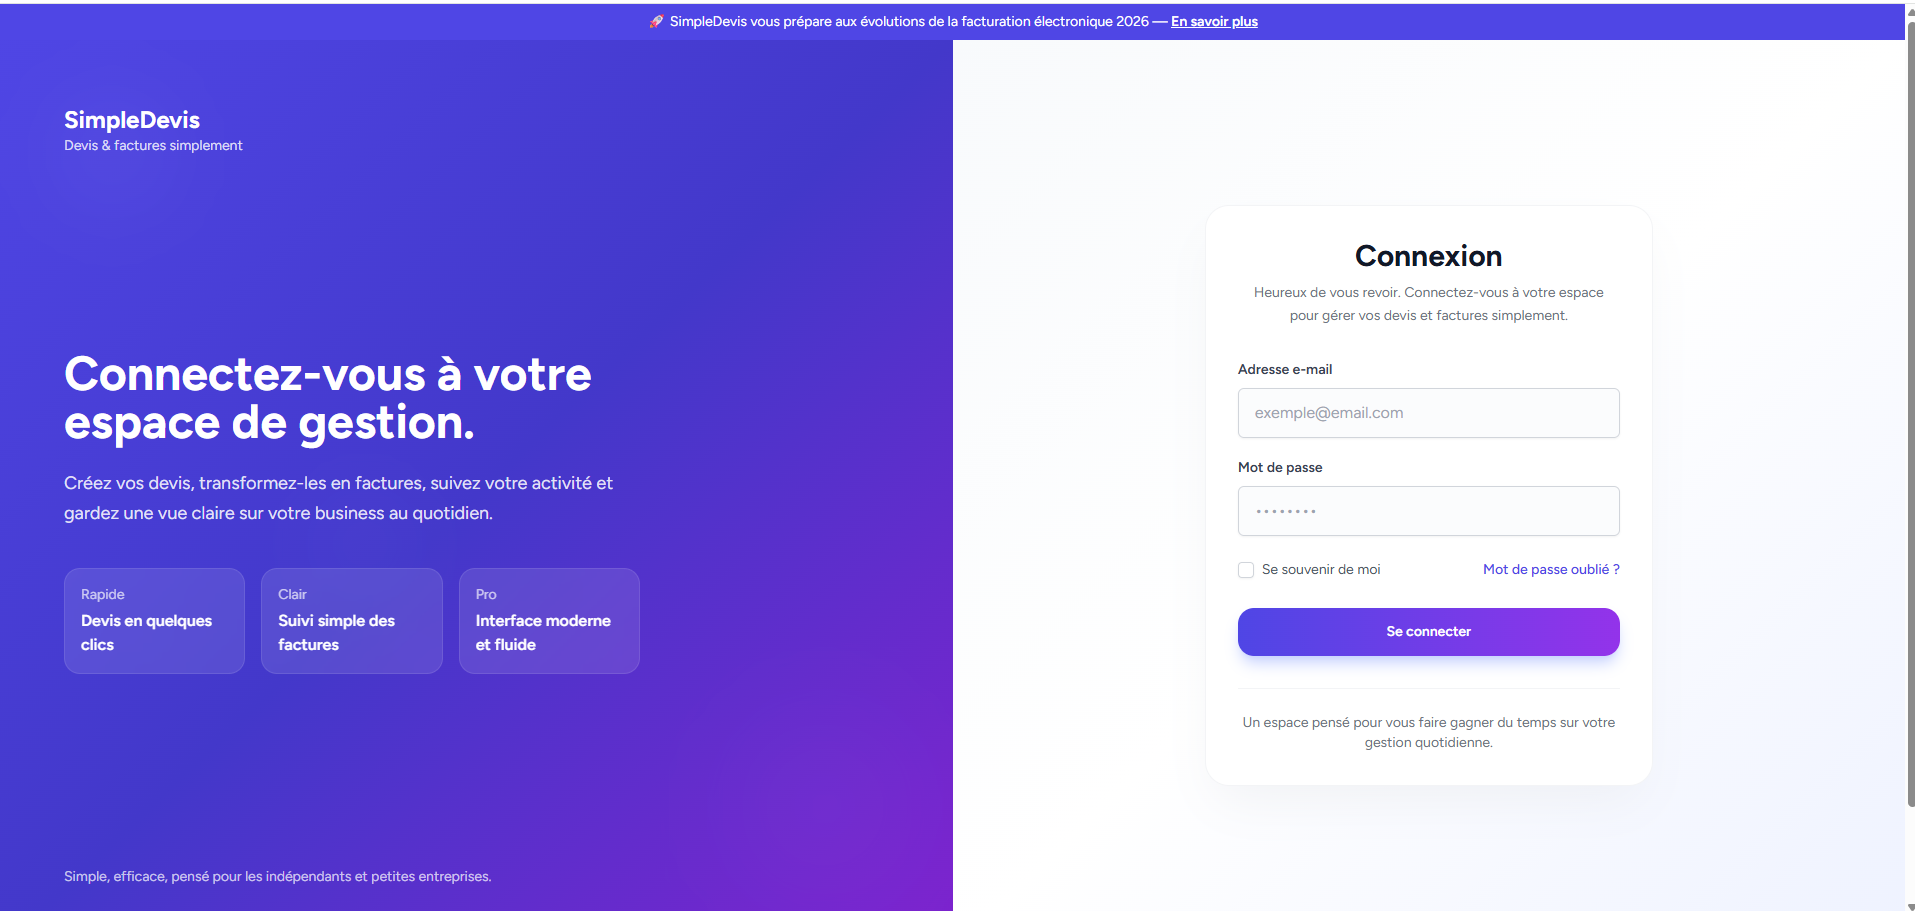
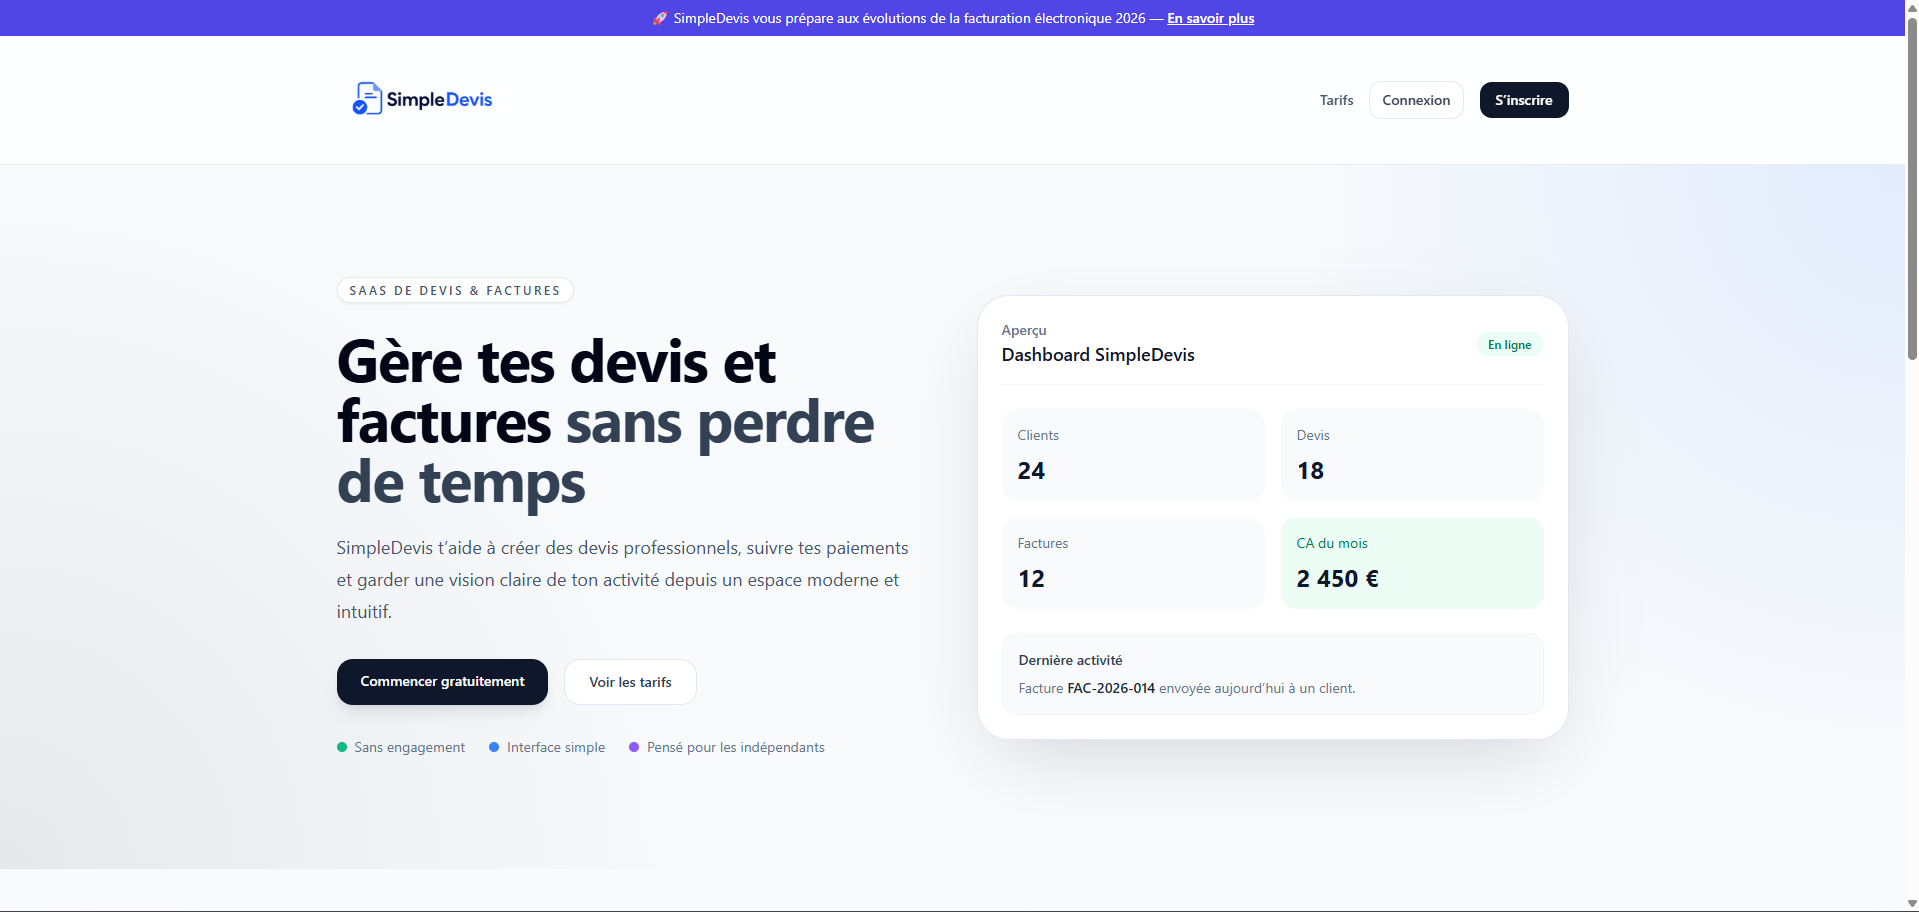
ajout images

diff --git a/resources/views/layouts/app.blade.php b/resources/views/layouts/app.blade.php
@@ -1,12 +1,48 @@
+
 <!DOCTYPE html>
 <html lang="fr">
 <head>
     <meta charset="UTF-8">
     <meta name="viewport" content="width=device-width, initial-scale=1.0">
 
-    <title>@yield('title', 'Corsica Digital Lab')</title>
-    <meta name="description" content="@yield('description', 'Création de sites web et solutions numériques en Corse.')">
+    {{-- SEO principal --}}
+    <title>@yield('title', 'Corsica Digital Lab | Création de sites web en Corse')</title>
 
+    <meta
+        name="description"
+        content="@yield('description', 'Corsica Digital Lab accompagne les artisans, indépendants et entreprises dans la création de sites web et de solutions numériques en Corse.')"
+    >
+
+    <meta name="robots" content="index, follow">
+
+    {{-- URL canonique --}}
+    <link rel="canonical" href="{{ url()->current() }}">
+
+    {{-- Open Graph : partage sur les réseaux sociaux --}}
+    <meta property="og:type" content="website">
+    <meta property="og:locale" content="fr_FR">
+    <meta property="og:site_name" content="Corsica Digital Lab">
+
+    <meta property="og:title" content="@yield('title', 'Corsica Digital Lab | Création de sites web en Corse')">
+
+    <meta
+        property="og:description"
+        content="@yield('description', 'Création de sites web, e-commerce et solutions numériques sur mesure en Corse.')"
+    >
+
+    <meta property="og:url" content="{{ url()->current() }}">
+
+    {{-- Twitter / X --}}
+    <meta name="twitter:card" content="summary_large_image">
+
+    <meta name="twitter:title" content="@yield('title', 'Corsica Digital Lab | Création de sites web en Corse')">
+
+    <meta
+        name="twitter:description"
+        content="@yield('description', 'Création de sites web et solutions numériques en Corse.')"
+    >
+
+    {{-- Assets Laravel --}}
     @vite(['resources/css/app.css', 'resources/js/app.js'])
 </head>
 
@@ -18,8 +54,7 @@
         @yield('content')
     </main>
 
-        @include('components.footer')
-
+    @include('components.footer')
 
 </body>
 </html>

diff --git a/resources/views/pages/realisations.blade.php b/resources/views/pages/realisations.blade.php
@@ -1,10 +1,10 @@
 @extends('layouts.app')
 
-@section('title', 'Réalisations | Corsica Digital Lab')
+@section('title', 'Réalisations web et portfolio | Corsica Digital Lab')
 
 @section(
     'description',
-    'Découvrez une sélection de sites web, boutiques en ligne et projets numériques réalisés par Corsica Digital Lab.'
+    'Découvrez les réalisations de Corsica Digital Lab : sites e-commerce, applications Laravel, projets web sur mesure et prototypes de sites vitrines en Corse.'
 )
 
 @section('content')
@@ -69,7 +69,7 @@
                         <span>E-commerce</span>
                     </div>
 
-                    <a href="#" class="portfolio-link">
+                    <a href="https://lemonchiffon-skunk-139014.hostingersite.com/" class="portfolio-link"  target="_blank" rel="noopener noreferrer">
                         Découvrir le projet <span>→</span>
                     </a>
                 </div>
@@ -118,7 +118,7 @@
                 <span>Responsive</span>
             </div>
 
-            <a href="#" class="portfolio-link">
+            <a href="https://www.simpledevis.online/" class="portfolio-link" target="_blank" rel="noopener noreferrer">
                 Découvrir le projet <span>→</span>
             </a>
 

diff --git a/resources/views/pages/about.blade.php b/resources/views/pages/about.blade.php
@@ -1,9 +1,11 @@
-
 @extends('layouts.app')
 
-@section('title', 'À propos | Corsica Digital Lab')
+@section('title', 'Développeur web indépendant en Corse | Corsica Digital Lab')
 
-@section('description', 'Découvrez Corsica Digital Lab, une activité indépendante de création de sites web et de développement de solutions numériques en Corse.')
+@section(
+    'description',
+    'Découvrez Corsica Digital Lab, développeur web indépendant en Corse. Un accompagnement personnalisé pour vos sites internet et projets numériques.'
+)
 
 @section('content')
 

diff --git a/resources/views/pages/contact.blade.php b/resources/views/pages/contact.blade.php
@@ -1,9 +1,11 @@
-
 @extends('layouts.app')
 
-@section('title', 'Contact | Corsica Digital Lab')
+@section('title', 'Contactez votre développeur web en Corse | Corsica Digital Lab')
 
-@section('description', 'Contactez Corsica Digital Lab pour votre projet de site vitrine, e-commerce ou développement web sur mesure en Corse.')
+@section(
+    'description',
+    'Un projet de site internet, de boutique e-commerce ou de développement sur mesure ? Contactez Corsica Digital Lab, développeur web indépendant en Corse.'
+)
 
 @section('content')
 

diff --git a/resources/views/pages/services.blade.php b/resources/views/pages/services.blade.php
@@ -1,10 +1,10 @@
 @extends('layouts.app')
 
-@section('title', 'Services | Corsica Digital Lab')
+@section('title', 'Création de sites web et services numériques en Corse | Corsica Digital Lab')
 
 @section(
     'description',
-    'Création de sites vitrines, boutiques e-commerce, développement web sur mesure et maintenance pour les professionnels.'
+    'Création de sites vitrines, boutiques e-commerce, développement Laravel et maintenance web en Corse. Des solutions adaptées aux artisans, TPE et PME.'
 )
 
 @section('content')

diff --git a/resources/views/pages/home.blade.php b/resources/views/pages/home.blade.php
@@ -1,10 +1,10 @@
 @extends('layouts.app')
 
-@section('title', 'Corsica Digital Lab | Création web en Corse')
+@section('title', 'Création de sites internet en Corse | Corsica Digital Lab')
 
 @section(
     'description',
-    'Création de sites vitrines, e-commerce et solutions web sur mesure pour les professionnels en Corse.'
+    'Corsica Digital Lab crée des sites vitrines, boutiques e-commerce et solutions web sur mesure pour les artisans, indépendants et entreprises en Corse.'
 )
 
 @section('content')
